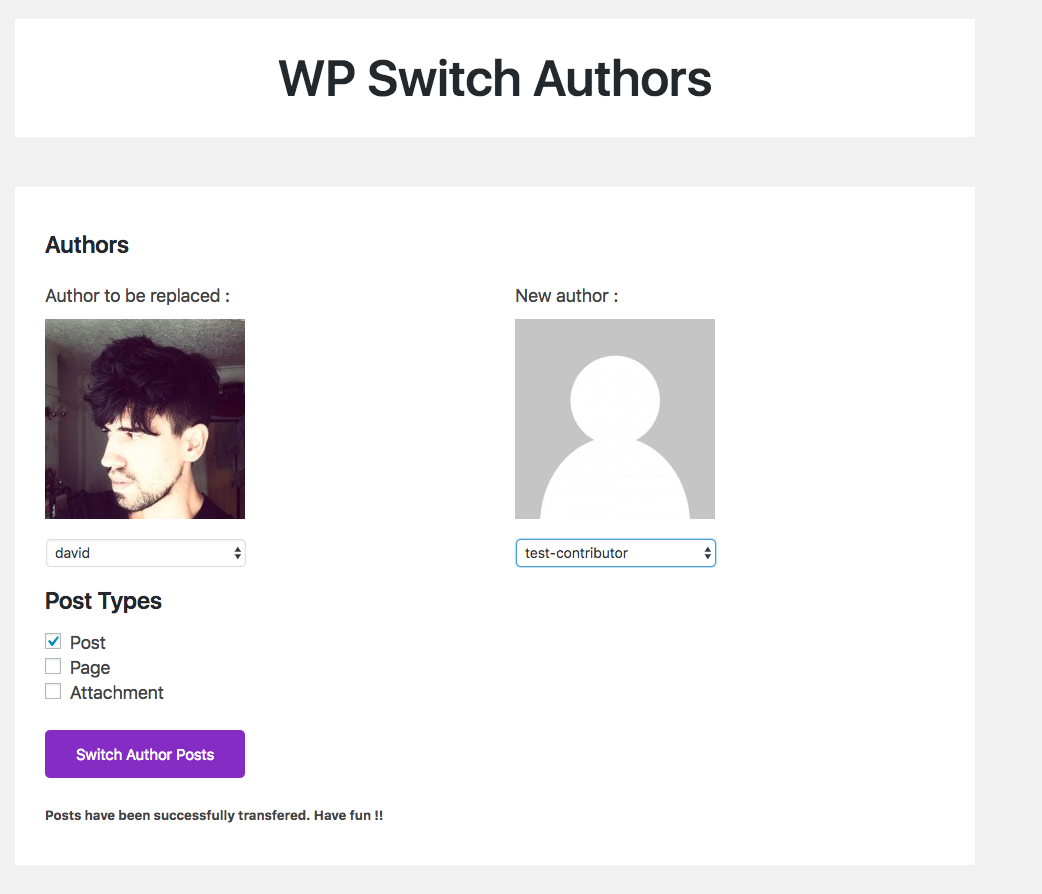
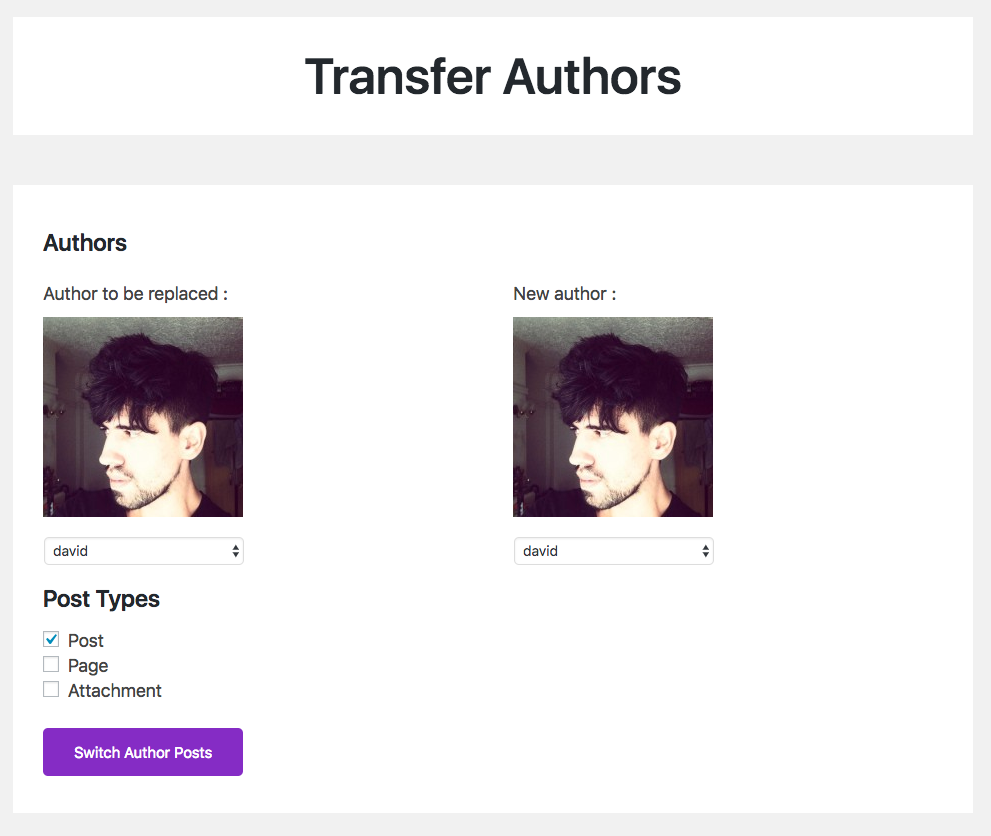
fix typo / language errors in readme.txt, rename plugin as Transfer Authors and add updated screenshots

diff --git a/transfer_authors.php b/transfer_authors.php
@@ -1,8 +1,8 @@
 <?php
 /**
- * Plugin Name: WP Switch Authors
+ * Plugin Name: Transfer Authors
  * Plugin URI: https://93digital.co.uk
- * Description: This plugin allows admins to change post types authors massively choosing which author will be replaced.
+ * Description: This plugin allows you to transfer posts from one author to another with ease. Make massive tranfers at once filtering by post type.
  * Version: 1.0.1
  * Author: David Guerreiro ( 93Digital )
  * Author URI: https://github.com/davidguerreiro

diff --git a/inc/posts_authors.php b/inc/posts_authors.php
@@ -48,8 +48,8 @@ class Posts_Authors {
       */
       public static function add_menu_page_option() {
         add_menu_page(
-            'WP Switch Author',
-            'WP Switch Author',
+            'Transfer Authors',
+            'Transfer Authors',
             'administrator',
             'wp-posts-authors',
             array( self::$shortname, 'display_main_page' ),

diff --git a/views/settings.php b/views/settings.php
@@ -28,7 +28,7 @@
 
  <header class="plugin-section">
     <h2 class="plugin-section__title">
-        <?php _e( 'WP Switch Authors', $trans_key ); ?>
+        <?php _e( 'Transfer Authors', $trans_key ); ?>
     </h2>
  </header>
 <section class="plugin-section">
